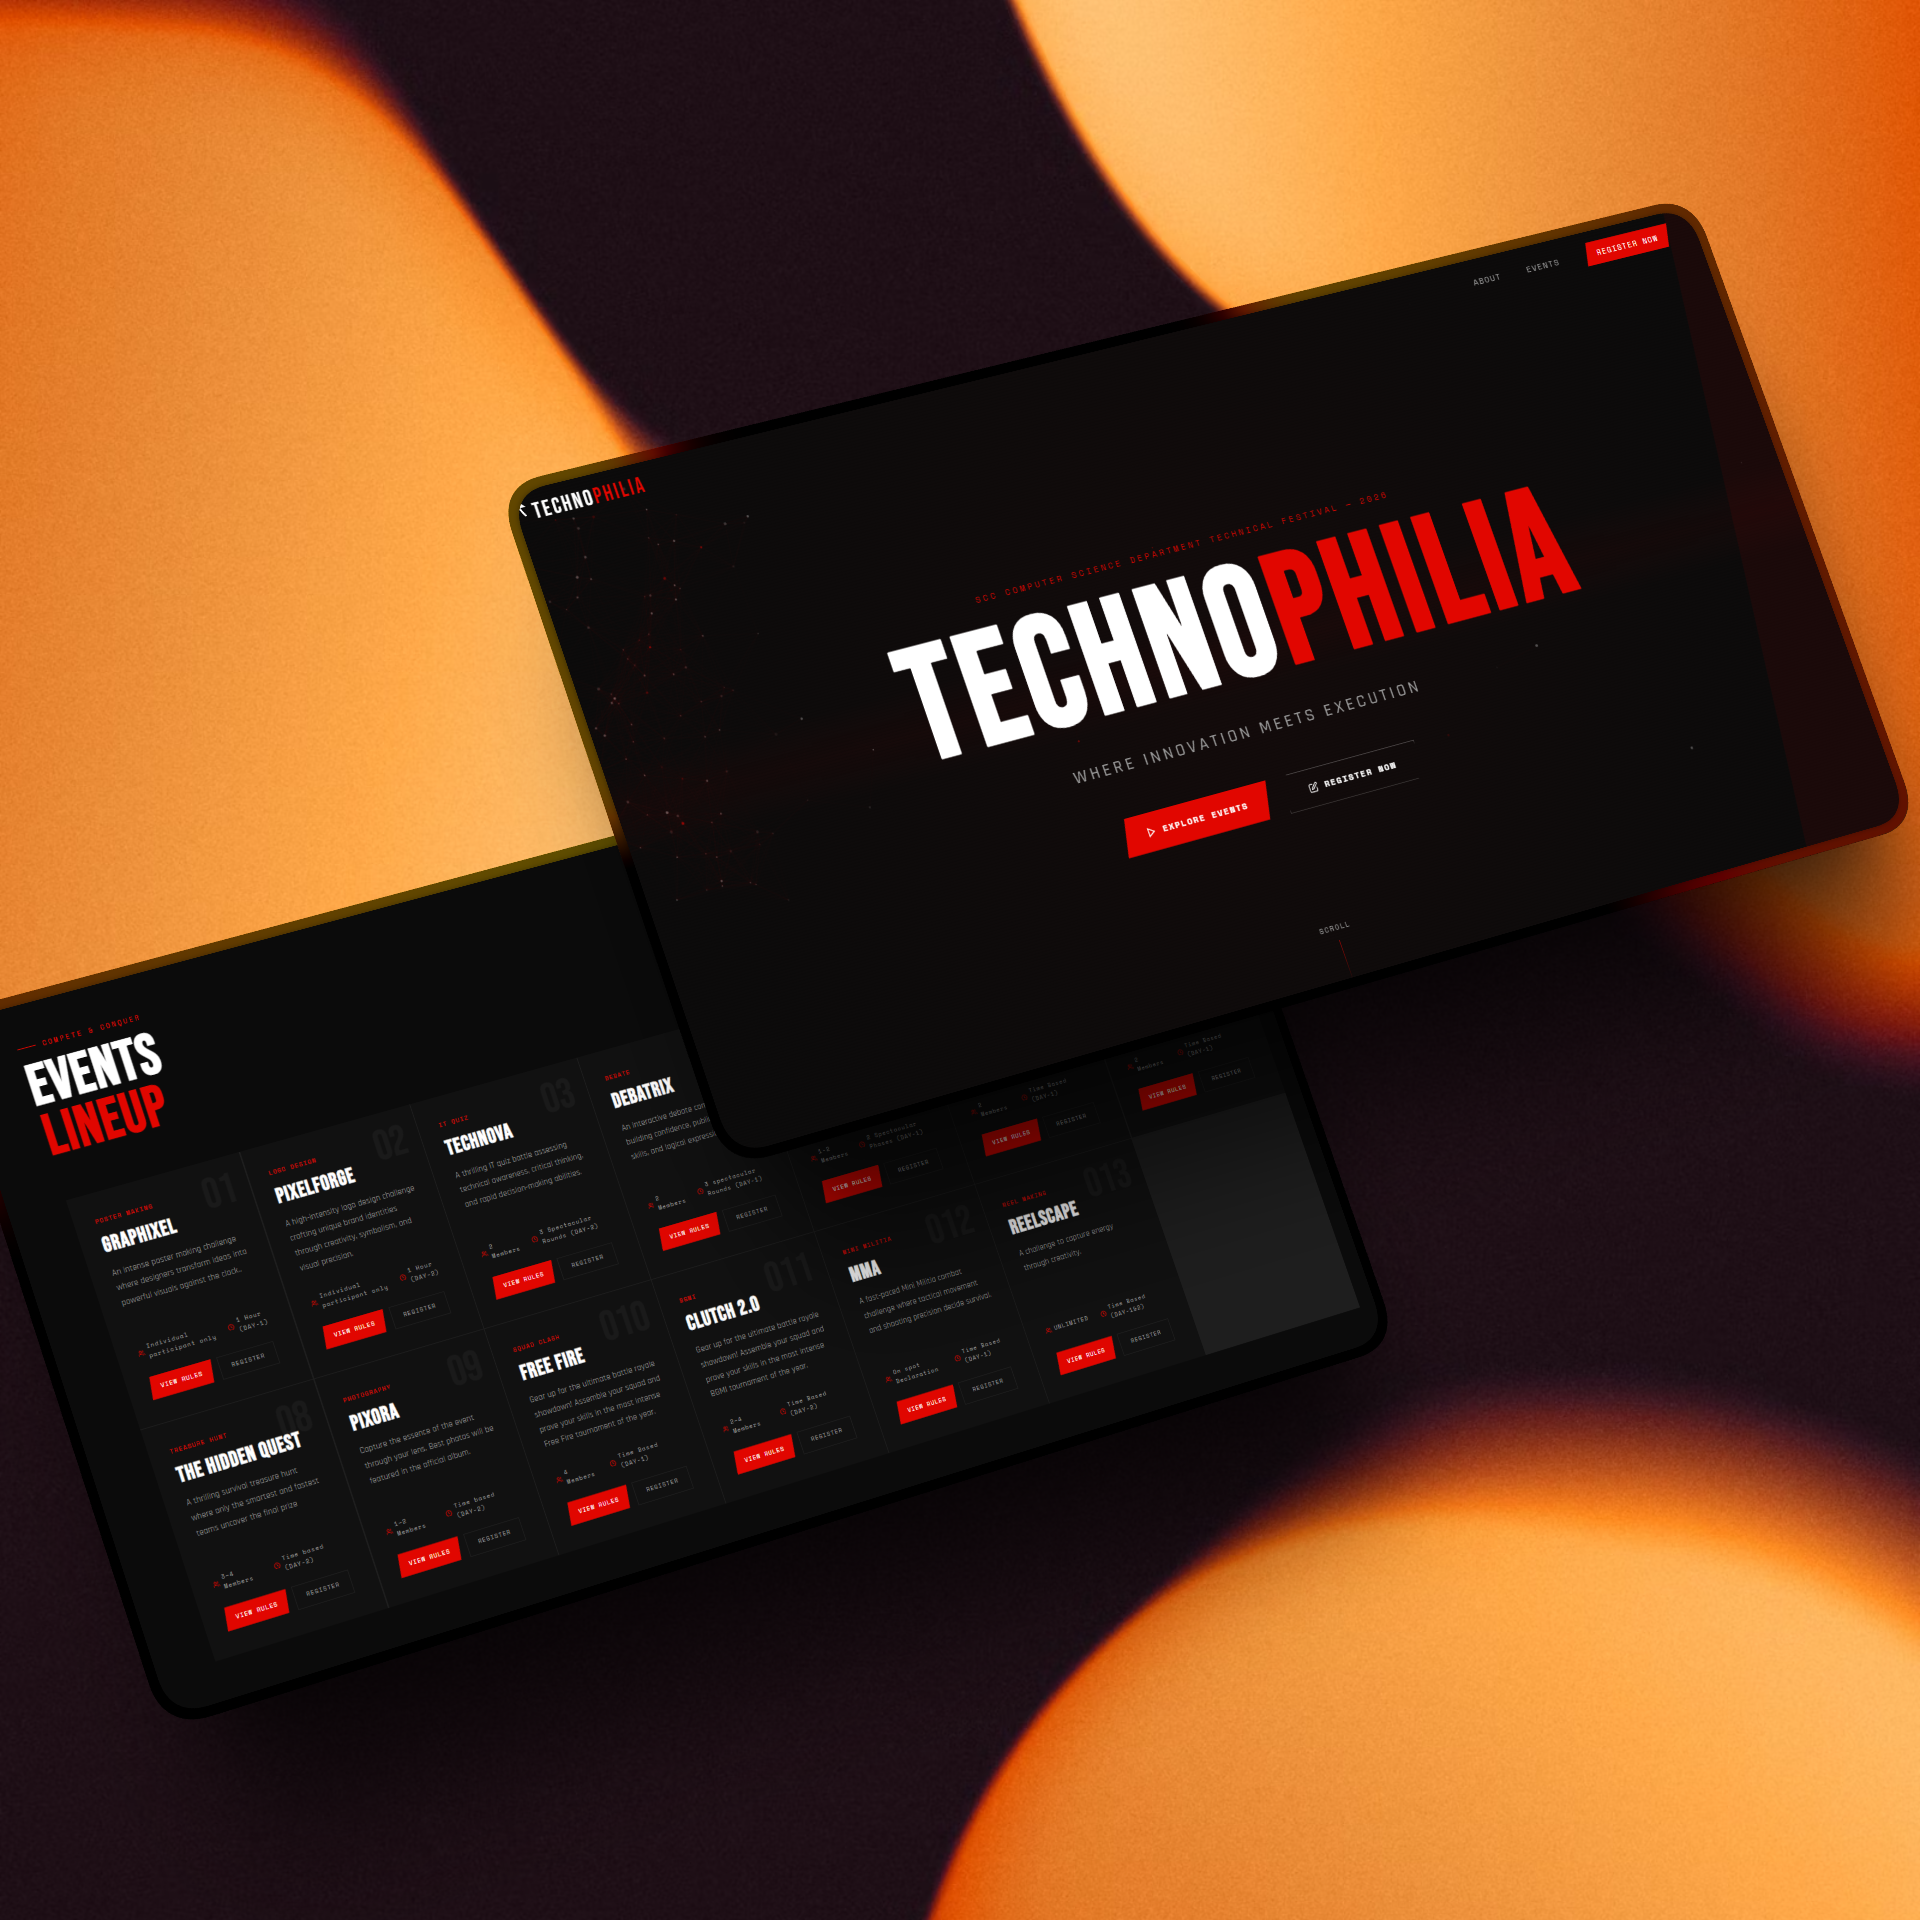
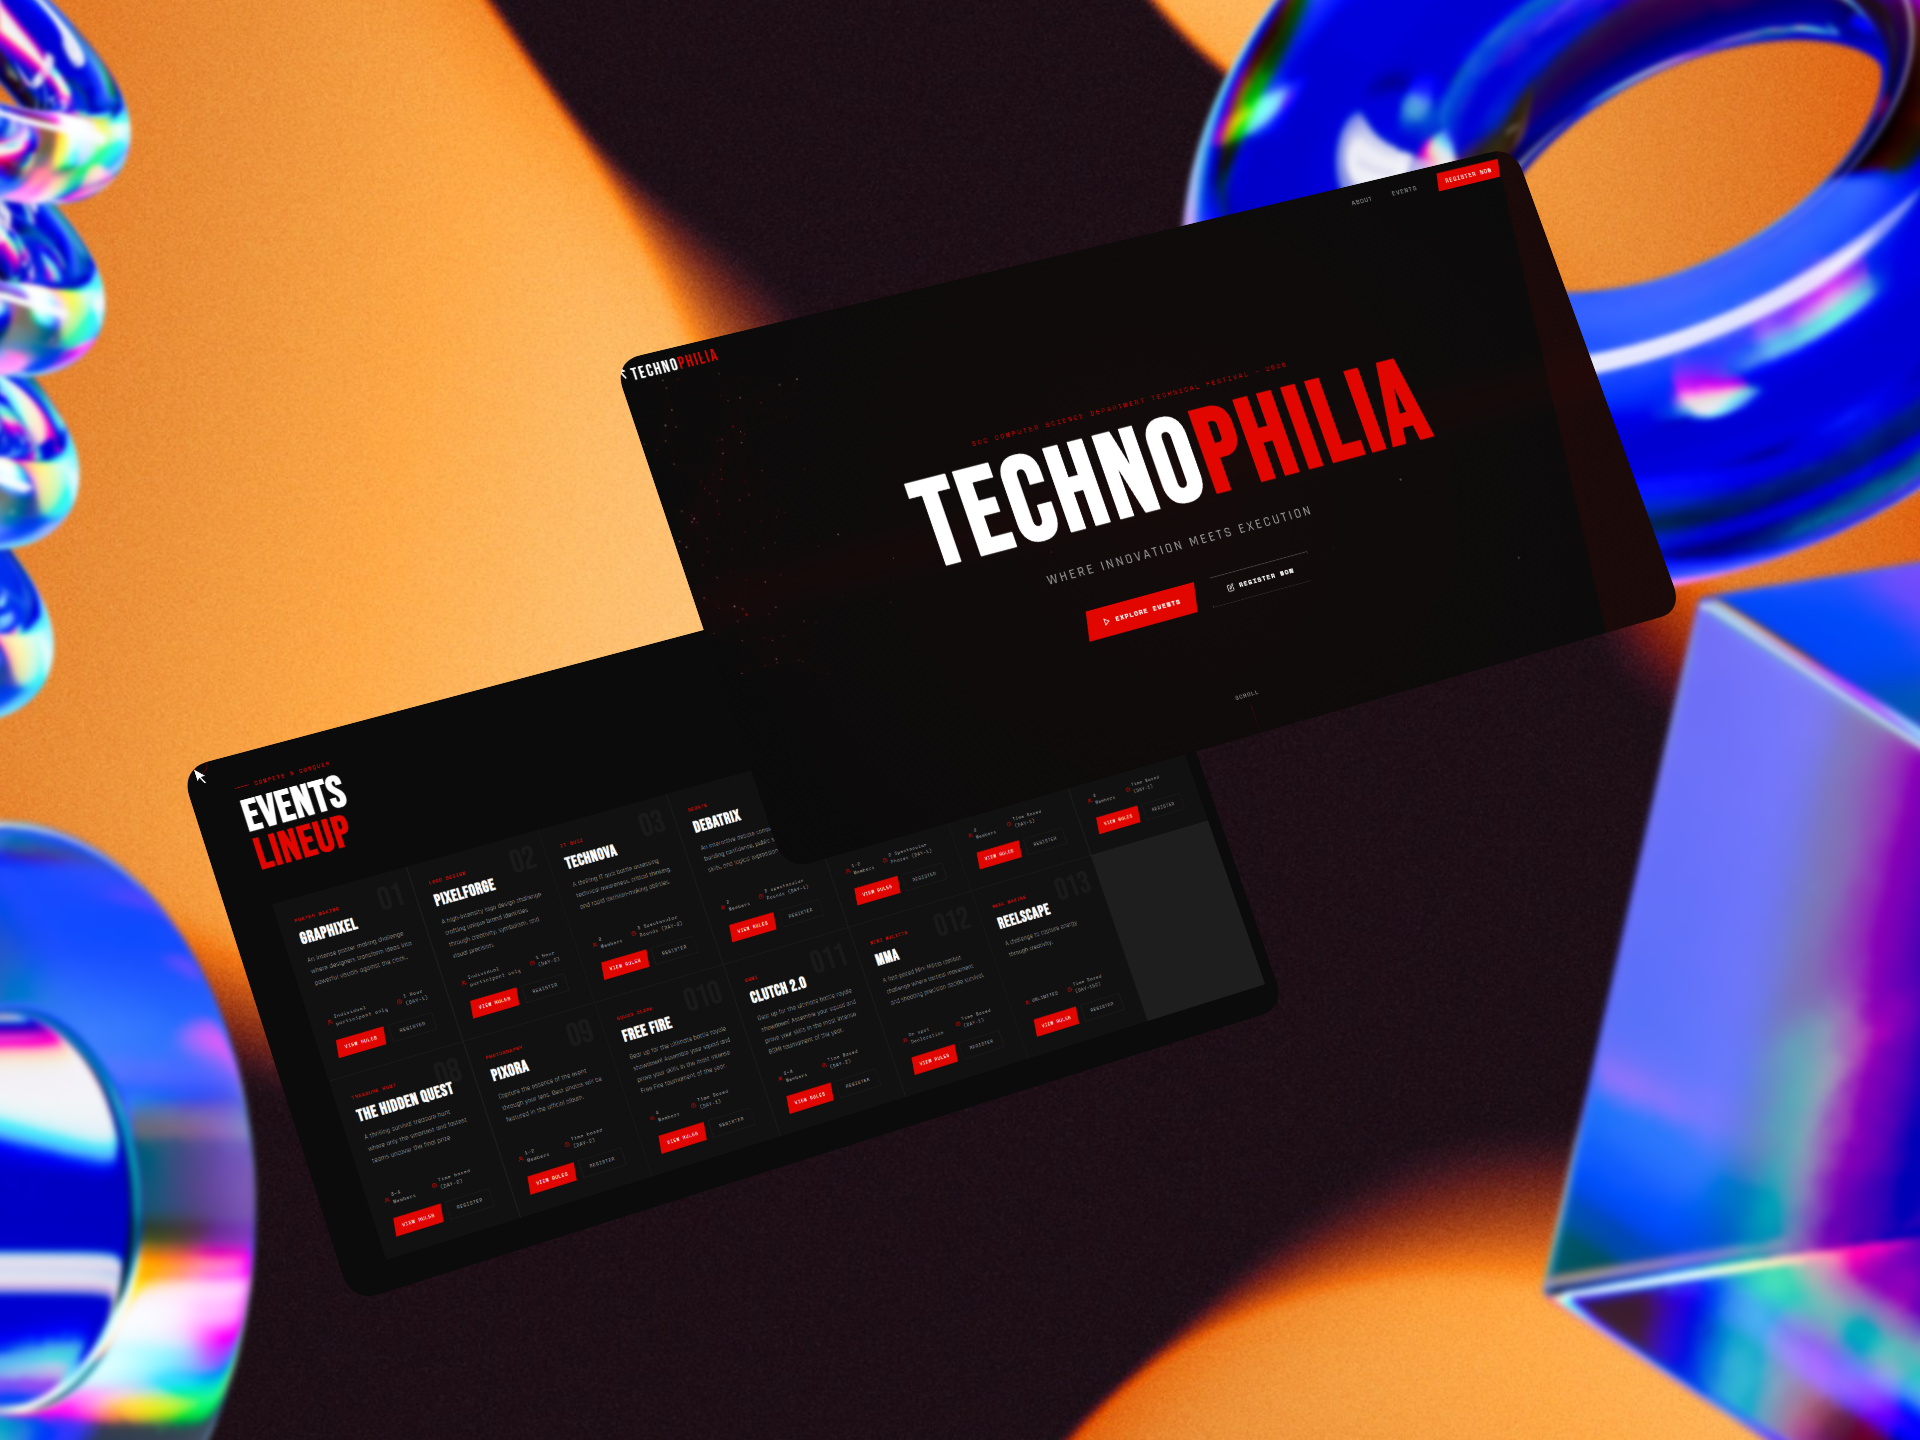
new project update

diff --git a/index.html b/index.html
@@ -27,7 +27,7 @@
         content="Professional portfolio showcasing creative work, services, and projects.">
     <meta property="twitter:image" content="https://sid-portfolio.com/og-image.jpg">
 
-    <title>Sid | Creative Full Stack Developer & UI/UX Designer</title>
+    <title>Sid | Creative Frontend Developer & UI/UX Designer</title>
     <link rel="canonical" href="https://sid-portfolio.com/">
     <link rel="preconnect" href="https://fonts.googleapis.com">
     <link rel="preconnect" href="https://fonts.gstatic.com" crossorigin>
@@ -35,6 +35,7 @@
         href="https://fonts.googleapis.com/css2?family=Inter:wght@300;400;500;600;700;800;900&family=Playfair+Display:wght@700;900&display=swap"
         rel="stylesheet">
     <link rel="stylesheet" href="index.css">
+    <link rel="icon" type="image/x-icon" href="favicon.ico">
 
     <!-- JSON-LD Structured Data -->
     <script type="application/ld+json">
@@ -662,6 +663,31 @@
                         <p class="project-description">
                             This project is a simple portfolio website that showcases my skills, projects, and
                             achievements.
+                        </p>
+                    </div>
+                </div>
+
+                <div class="project-card" data-category="code">
+                    <div class="project-image">
+                        <img src="images/bio-page-mockup.png" alt="bio page mockup"
+                            style="width: 100%; height: 100%; object-fit: cover;" loading="lazy">
+                        <div class="project-overlay">
+                            <a href="https://github.com/SidhCodez/sid-page/tree/main" class="project-link"
+                                aria-label="View Fitness Tracking App Project">View
+                                Project</a>
+                        </div>
+                    </div>
+                    <div class="project-info">
+                        <div class="project-tags">
+                            <span class="project-tag">Code Based</span>
+                        </div>
+                        <h3 class="project-title">Personal Link Saver</h3>
+                        <p class="project-description">
+                            This project is a simple yet efficient web application designed to help users store,
+                            organize,
+                            and manage their frequently used website links. It serves as a centralized hub for quick
+                            access
+                            to important URLs, making it an invaluable tool for professionals and students.
                         </p>
                     </div>
                 </div>